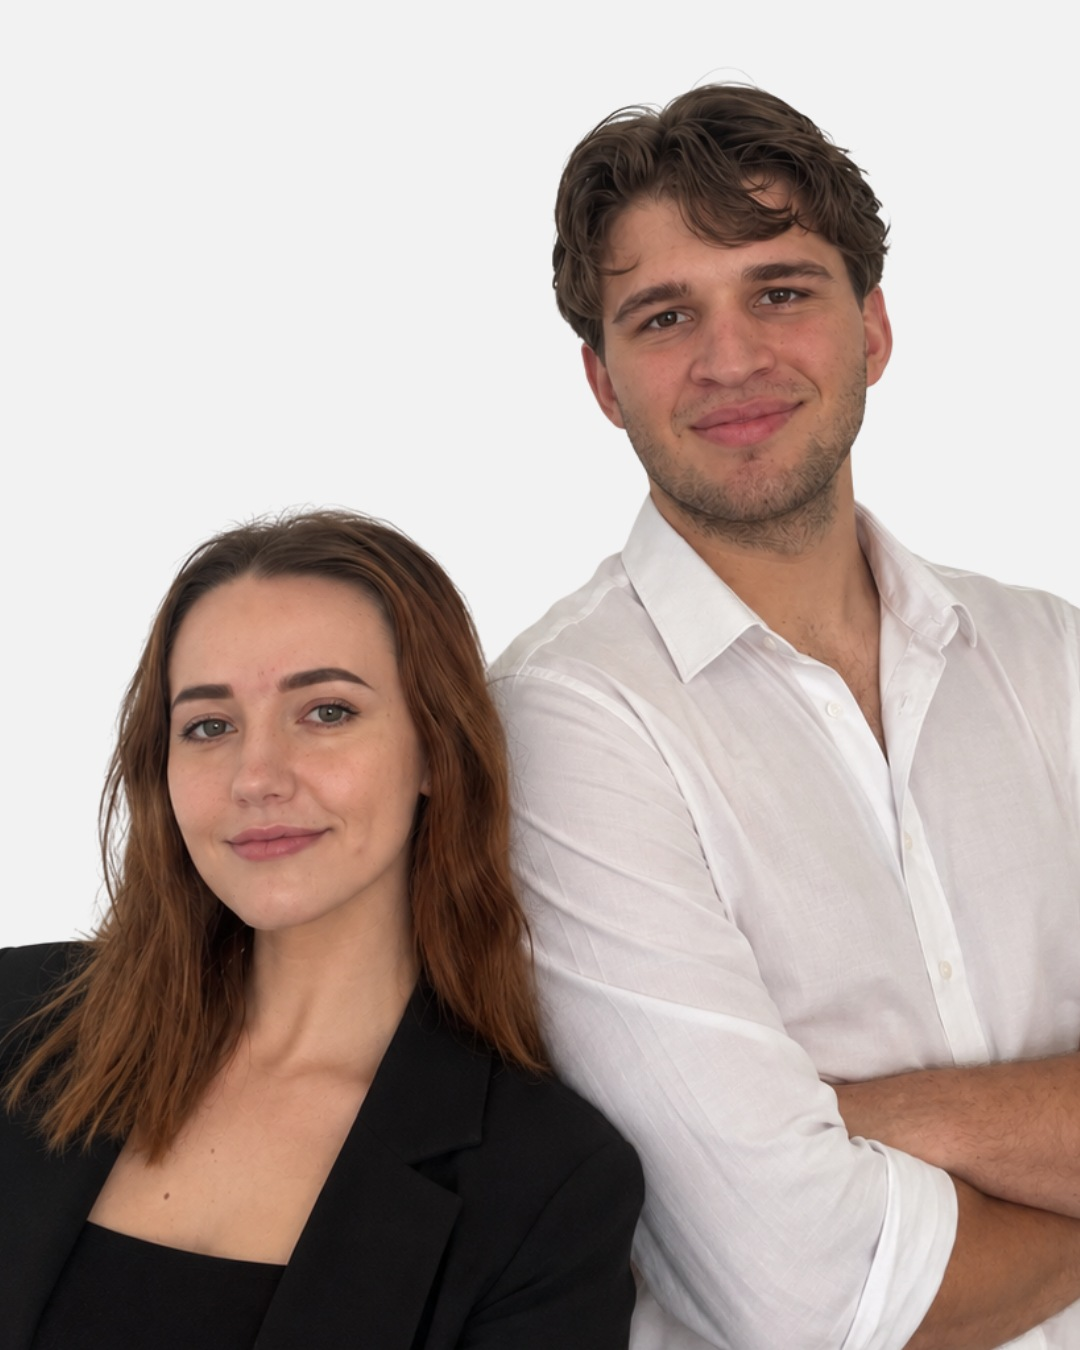
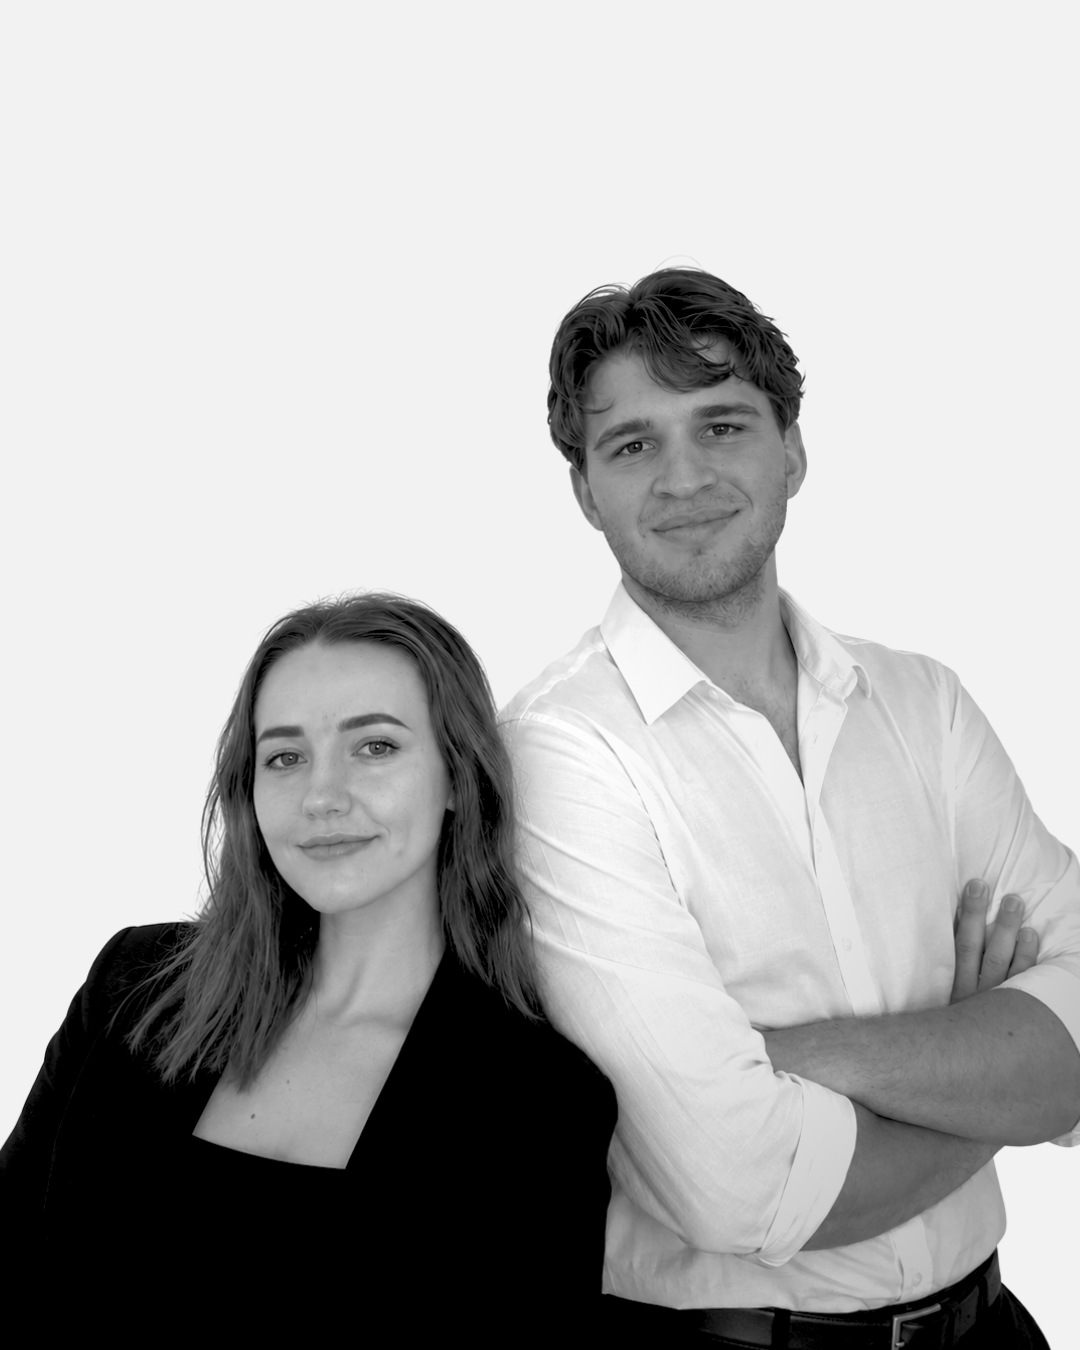
Swap in the professional founders photo, adjust hover for true grayscale
Replaces assets/founders-photo.jpg with the better-composed studio
photo of both founders. It's genuine grayscale (no color channels), so
the "reveal to color" hover effect had nothing to reveal — swapped it
for a subtle contrast/brightness lift + zoom on hover instead, keeping
the cinematic feel without a no-op color transition.

Claude-Session: https://claude.ai/code/session_017dpbEuELzFHaThfwvJhn5h

diff --git a/website/index.html b/website/index.html
@@ -195,9 +195,9 @@
     .lux-photo-wrap{position:relative;aspect-ratio:4/5;max-height:min(78vh,900px);margin-inline:auto;overflow:hidden;
       opacity:0;clip-path:inset(100% 0 0 0);transition:opacity 1.1s var(--ease) .1s,clip-path 1.2s var(--ease) .1s}
     .founders-lux.lux-in .lux-photo-wrap{opacity:1;clip-path:inset(0 0 0 0)}
-    .lux-photo{width:100%;height:100%;object-fit:cover;object-position:center 18%;filter:grayscale(1) contrast(1.04);
-      transition:filter 1s var(--ease),transform .5s var(--ease);transform:translate3d(0,var(--lux-py,0),0) scale(1.06)}
-    .lux-photo-wrap:hover .lux-photo{filter:grayscale(0) contrast(1.01);transform:translate3d(0,var(--lux-py,0),0) scale(1.08)}
+    .lux-photo{width:100%;height:100%;object-fit:cover;object-position:center 15%;filter:contrast(1.04);
+      transition:filter .6s var(--ease),transform .5s var(--ease);transform:translate3d(0,var(--lux-py,0),0) scale(1.06)}
+    .lux-photo-wrap:hover .lux-photo{filter:contrast(1.12) brightness(1.02);transform:translate3d(0,var(--lux-py,0),0) scale(1.08)}
     .lux-photo-fallback{display:none;position:absolute;inset:0;align-items:center;justify-content:center;background:#e8e3d8;border:1px dashed rgba(18,17,16,.3)}
     .lux-photo-fallback span{font-size:.7rem;font-weight:800;letter-spacing:.24em;color:rgba(18,17,16,.45)}
     .lux-photo-missing .lux-photo{display:none}
